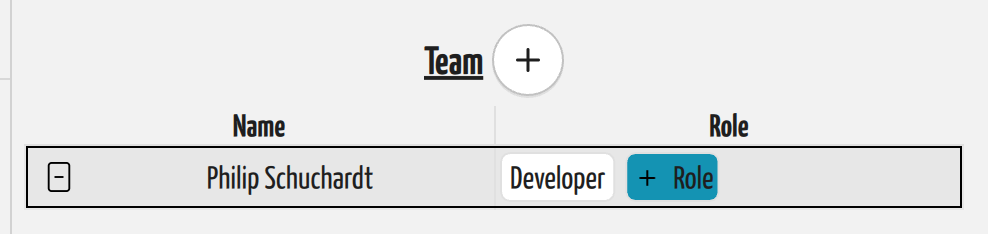
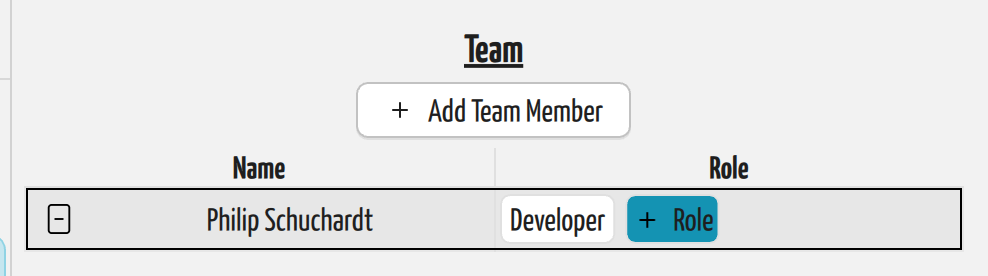
Replace the Team round + button with "+ Add Team Member"
The survey editor's Team section added members through a small round +
beside the heading. It is now a labeled "+ Add Team Member" button on
the line below, matching "+ Add Survey Data". SectionHeader's round-button
option had no other users and is removed.

cwTeam gains a count property (NOTIFY on insert/remove/reset) so QML can
watch the team size; the new test_addTeamMemberButton uses it.

tst_SurveyDataEntry's addSurvey() helper clicked "Add Trip" while the
sidebar was still sliding open on the first test, so the click missed and
whichever test ran first failed. It now waits for the button to stop
moving.

The manual's Team section and survey-team.png are updated.

Fixes #704

Tested: full cavewhere-qml-test (1091 passed, 0 failed, 88 skipped).
cavewhere-test: 1098/1101 passed before the run hung; the two failures
(LocalProjectionFrame "A frame that moves takes its clouds with it",
NoteLiDARManager #671 warm-cache rerun) pass standalone and are unrelated.

diff --git a/test-qml/tst_SurveyDataEntry.qml b/test-qml/tst_SurveyDataEntry.qml
@@ -25,8 +25,17 @@ MainWindowTest {
 
             tryVerify(()=>{ return RootData.pageView.currentPageItem.objectName === "cavePage" });
 
-            let addCaveButton = ObjectFinder.findObjectByChain(mainWindow, "rootId->cavePage->addTrip->addButton")
-            mouseClick(addCaveButton)
+            // On the first test the sidebar is still animating open, which
+            // slides the cave page; click only once the button stops moving.
+            let addTripButton = ObjectFinder.findObjectByChain(mainWindow, "rootId->cavePage->addTrip->addButton")
+            let lastX = Number.NaN
+            tryVerify(() => {
+                let x = addTripButton.mapToItem(null, 0, 0).x
+                let settled = x === lastX
+                lastX = x
+                return settled
+            })
+            mouseClick(addTripButton)
 
             tryVerify(()=>{ return RootData.pageView.currentPageItem.objectName === "tripPage" });
 
@@ -508,6 +517,20 @@ MainWindowTest {
             let tab = 16777218;
             let modifier = 33554432;
             return navHelper(currentItem, index, nextRole, tab, modifier);
+        }
+
+        function test_addTeamMemberButton() {
+            addSurvey()
+
+            let teamTable = ObjectFinder.findObjectByChain(mainWindow, "rootId->tripPage->surveyEditor->view->teamTable")
+            let team = teamTable.model
+            let startCount = team.count
+
+            let addTeamMemberButton = ObjectFinder.findObjectByChain(mainWindow, "rootId->tripPage->surveyEditor->view->teamTable->addTeamMember")
+            compare(addTeamMemberButton.text, "Add Team Member")
+            mouseClick(addTeamMemberButton)
+
+            tryCompare(team, "count", startCount + 1)
         }
 
         function test_enterSurveyData() {

diff --git a/cavewherelib/qml/TeamTable.qml b/cavewherelib/qml/TeamTable.qml
@@ -28,12 +28,21 @@ QQ.Item {
         //        console.debug("Update state: " + teamTable.state )
     }
 
-    SectionHeader {
-        id: titleRow
+    SectionLabel {
+        id: titleLabel
         anchors.horizontalCenter: parent.horizontalCenter
         text: "Team"
-        showAddButton: true
-        onAddClicked: {
+    }
+
+    AddButton {
+        id: addTeamMemberButton
+        objectName: "addTeamMember"
+        anchors.top: titleLabel.bottom
+        anchors.topMargin: 5
+        anchors.horizontalCenter: parent.horizontalCenter
+        text: "Add Team Member"
+
+        onClicked: {
             teamTable.model.addTeamMember();
             teamList.currentIndex = teamList.count - 1
         }
@@ -42,7 +51,7 @@ QQ.Item {
     QQ.Item {
         id: personTable
 
-        anchors.top: titleRow.bottom
+        anchors.top: addTeamMemberButton.bottom
         anchors.topMargin: 5
 
         width: teamList.width

diff --git a/cavewherelib/qml/SectionHeader.qml b/cavewherelib/qml/SectionHeader.qml
@@ -1,17 +1,13 @@
 import QtQml
 import QtQuick as QQ
 import QtQuick.Layouts
-import QtQuick.Controls as QC
 import cavewherelib
 
 RowLayout {
     id: sectionHeader
 
     property alias text: label.text
-    property bool showAddButton: false
     property Component addControl: null
-
-    signal addClicked()
 
     spacing: Theme.delegatePadding
 
@@ -23,13 +19,5 @@ RowLayout {
         active: sectionHeader.addControl !== null
         visible: active
         sourceComponent: sectionHeader.addControl
-    }
-
-    QC.RoundButton {
-        visible: sectionHeader.showAddButton && sectionHeader.addControl === null
-        icon.source: "qrc:twbs-icons/icons/plus.svg"
-        icon.width: Theme.iconSizeSmall
-        icon.height: Theme.iconSizeSmall
-        onClicked: sectionHeader.addClicked()
     }
 }

diff --git a/cavewherelib/src/cwTeam.h b/cavewherelib/src/cwTeam.h
@@ -23,6 +23,8 @@ class CAVEWHERE_LIB_EXPORT cwTeam : public QAbstractListModel
     Q_OBJECT
     QML_NAMED_ELEMENT(Team)
 
+    Q_PROPERTY(int count READ count NOTIFY countChanged)
+
 public:
     enum TeamModelRoles{
         NameRole,
@@ -45,6 +47,8 @@ public:
     void setTeamMembers(QList<cwTeamMember> team);
     QList<cwTeamMember> teamMembers() const;
 
+    int count() const { return Team.size(); }
+
     int rowCount(const QModelIndex &parent = QModelIndex()) const;
     QVariant data(const QModelIndex &index, int role) const;
 
@@ -58,6 +62,7 @@ public:
     cwTeamData data() const { return {Team}; };
 
 signals:
+    void countChanged();
 
 public slots:
 

diff --git a/cavewherelib/src/cwTeam.cpp b/cavewherelib/src/cwTeam.cpp
@@ -17,6 +17,9 @@ cwTeam::cwTeam(QObject *parent) :
     QAbstractListModel(parent),
     m_keywordModel(new cwKeywordModel(this))
 {
+    connect(this, &cwTeam::rowsInserted, this, &cwTeam::countChanged);
+    connect(this, &cwTeam::rowsRemoved, this, &cwTeam::countChanged);
+    connect(this, &cwTeam::modelReset, this, &cwTeam::countChanged);
 }
 
 // /**

diff --git a/docs/manual/survey-data/caves-and-trips.md b/docs/manual/survey-data/caves-and-trips.md
@@ -115,11 +115,11 @@ declination then falls back to the stored manual value and warns:
 
 ## Record the team
 
-The **Team** section lists who came. The **+** beside the heading adds a blank
-row; double-click the name cell to fill it in. The **−** and the green
+The **Team** section lists who came. The **+ Add Team Member** button under the
+heading adds a blank row; double-click the name cell to fill it in. The **−** and the green
 **+ Role** button appear only on the selected row.
 
-![The Team section of a trip: a Team heading with a + button, Name and Role columns, and one selected row holding a name, a role chip, and a green + Role button.](../images/survey-team.png)
+![The Team section of a trip: a Team heading with an Add Team Member button, Name and Role columns, and one selected row holding a name, a role chip, and a green + Role button.](../images/survey-team.png)
 *The Team section, with its one row selected.*
 
 **The names do more than document.** Every non-empty name becomes a **Caver**
